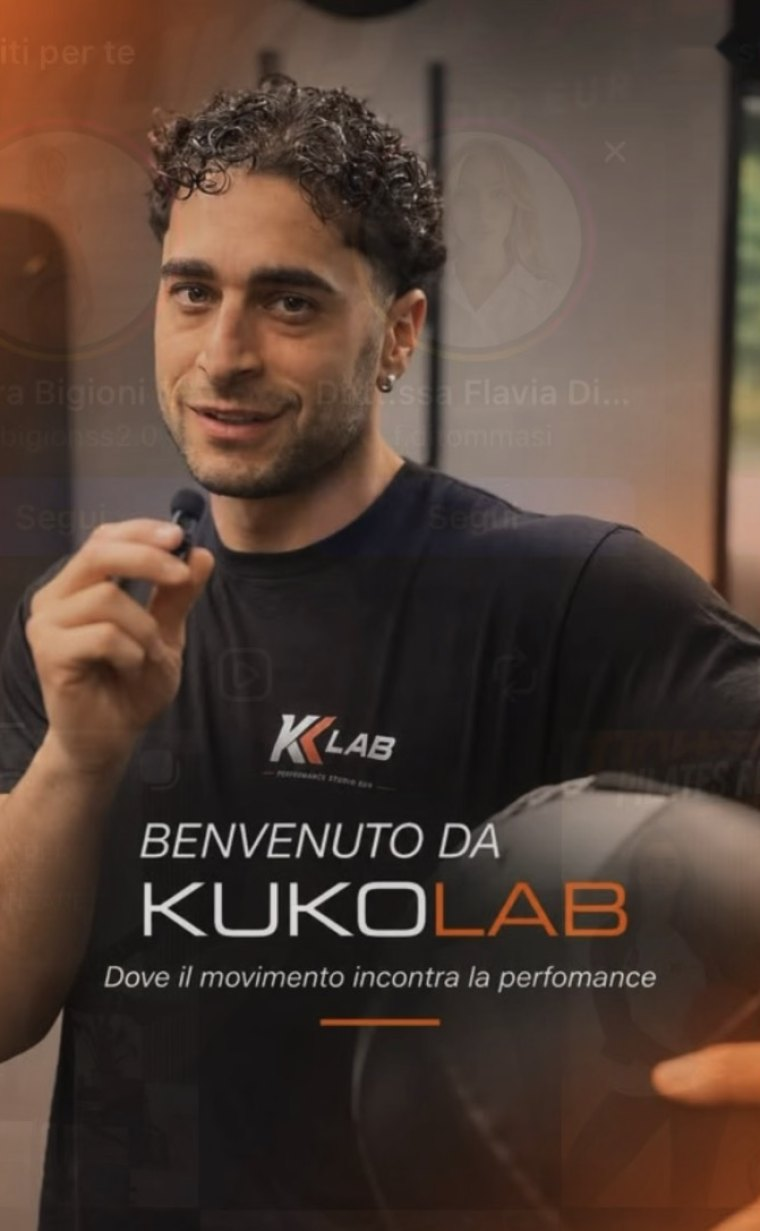
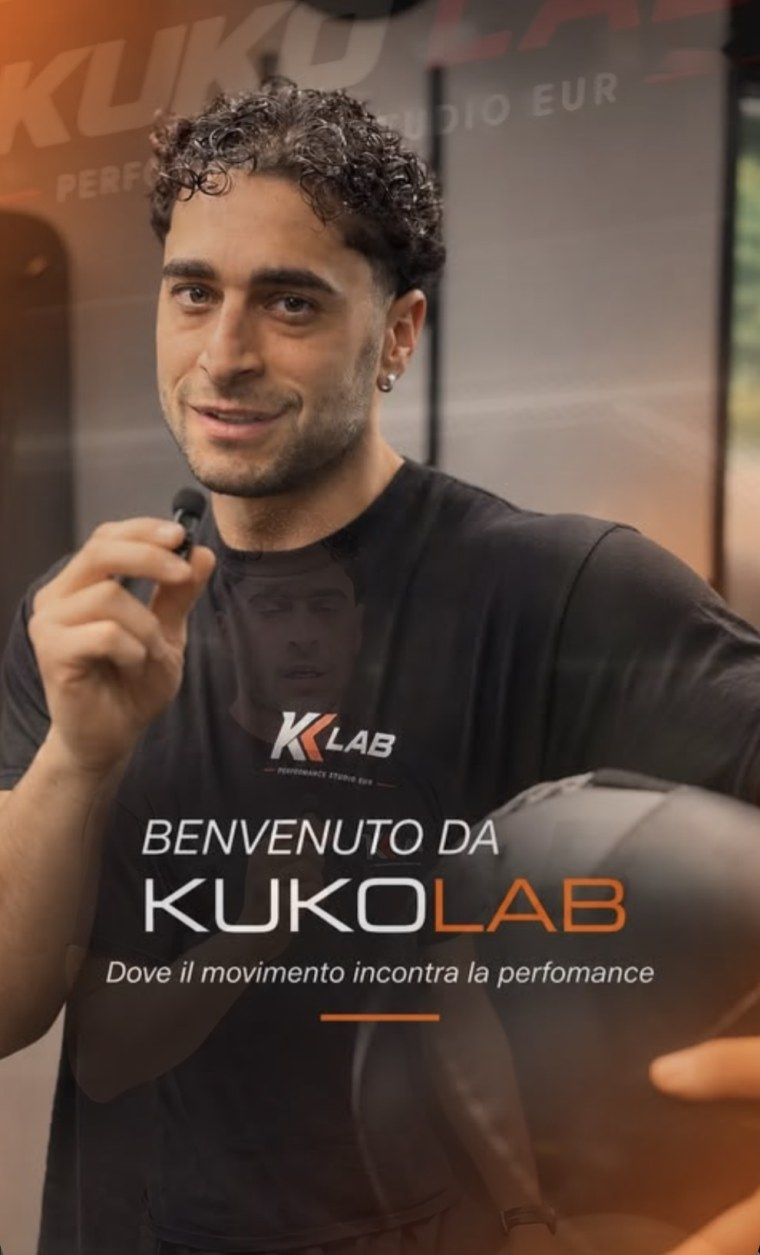
Instagram: nuova copertina del primo reel («Benvenuto da KUKOLAB»)
Ritaglio del fotogramma dallo screenshot del cliente: tolti la testata di Instagram, il contatore 0:35 e gli angoli arrotondati.

Claude-Session: https://claude.ai/code/session_01Dkgg7PSUWnhATau7aG1SC2

diff --git a/public/index.html b/public/index.html
@@ -158,7 +158,7 @@
         <a class="btn ghost" href="https://www.instagram.com/kukolab_performance/" target="_blank" rel="noopener">Seguici su Instagram</a>
       </div>
       <ul class="reels">
-        <li><a href="https://www.instagram.com/kukolab_performance/reels/" target="_blank" rel="noopener"><img src="/img/reel-benvenuto.jpg" width="760" height="1231" loading="lazy" alt="Video «Benvenuto da KUKOLAB»: Valerio presenta lo studio"><svg viewBox="0 0 24 24" aria-hidden="true"><circle cx="12" cy="12" r="11"/><path d="M10 8l6 4-6 4z"/></svg></a></li>
+        <li><a href="https://www.instagram.com/kukolab_performance/reels/" target="_blank" rel="noopener"><img src="/img/reel-benvenuto.jpg" width="760" height="1255" loading="lazy" alt="Video «Benvenuto da KUKOLAB»: Valerio presenta lo studio"><svg viewBox="0 0 24 24" aria-hidden="true"><circle cx="12" cy="12" r="11"/><path d="M10 8l6 4-6 4z"/></svg></a></li>
         <li><a href="https://www.instagram.com/kukolab_performance/reels/" target="_blank" rel="noopener"><img src="/img/reel-halloween.jpg" width="760" height="1314" loading="lazy" alt="Video «Promo Halloween Pilates reformer»"><svg viewBox="0 0 24 24" aria-hidden="true"><circle cx="12" cy="12" r="11"/><path d="M10 8l6 4-6 4z"/></svg></a></li>
       </ul>
     </div>
